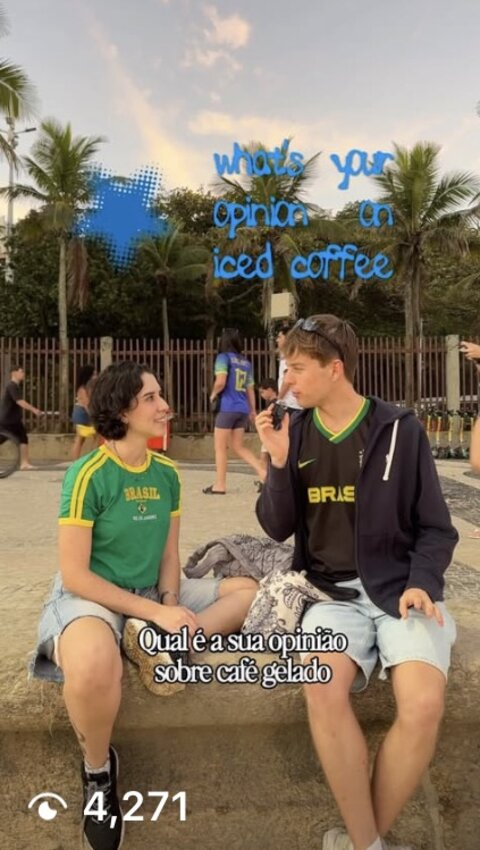
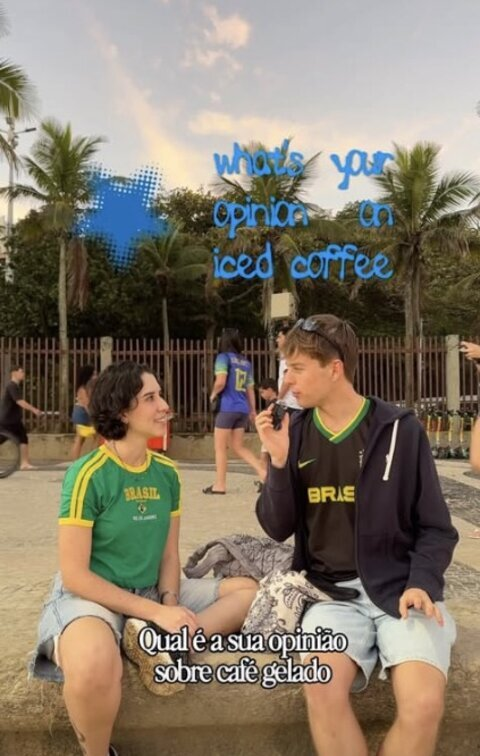
Add ASA Açaí cover photo; crop view-count overlays to only Ecorali and Meio do Mundo
Claude-Session: https://claude.ai/code/session_01QbWSJ4m6DaLrBPjjbyB7xX

diff --git a/index.html b/index.html
@@ -127,7 +127,9 @@
             </div>
           </a>
           <a class="portfolio-card" href="https://www.instagram.com/reel/DfIjsjmS9Ih/?hvrq=MTAxcG14MmdkbHpsYQ==" target="_blank" rel="noopener">
-            <div class="portfolio-thumb">ASA A&ccedil;a&iacute; &times; Rio</div>
+            <div class="portfolio-thumb has-image">
+              <img src="images/asa-acai.jpg" alt="Gringo vs. Açaí Toppings — Dan and a friend with a tray of açaí toppings for ASA Açaí" />
+            </div>
             <div class="portfolio-info">
               <div class="cap">ASA A&ccedil;a&iacute; &mdash; UGC Campaign</div>
               <div class="meta">Instagram Reel &middot; Food &amp; Beverage UGC</div>
